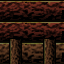
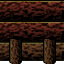
no more unhappiness and marginessss

diff --git a/js/load_level.js b/js/load_level.js
@@ -62,16 +62,16 @@ world.load_level = function(lvl_n) {
             world.scene.addChild(background);
 
             world.readMap([
-            [1,1,1,1,1,1,1,1,1,1,1,1,1,1],
-            [1,0,P,2,0,0,0,2,0,0,0,0,0,1],
-            [1,0,0,3,0,C,0,2,0,0,0,0,C,1],
-            [1,0,0,4,0,3,3,2,0,0,1,0,0,1],
-            [1,0,0,4,0,0,0,0,0,0,1,0,0,1],
-            [1,0,0,2,0,0,0,0,0,0,1,0,0,1],
-            [1,0,0,3,3,3,2,2,2,1,1,0,0,1],
-            [1,0,C,0,0,0,0,0,0,C,0,0,0,1],
-            [1,0,0,0,0,0,0,0,0,0,0,0,0,1],
-            [1,1,1,1,1,1,1,1,1,1,1,1,1,1]
+            [11,1,1,1,1,1,1,1,1,1,1,1,1,11],
+            [11,0,P,2,0,0,0,2,0,0,0,0,0,11],
+            [11,0,0,3,0,C,0,2,0,0,0,0,C,11],
+            [11,0,0,4,0,3,3,2,0,0,1,0,0,11],
+            [11,0,0,4,0,0,0,0,0,0,1,0,0,11],
+            [11,0,0,2,0,0,0,0,0,0,1,0,0,11],
+            [11,0,0,3,3,3,2,2,2,1,1,0,0,11],
+            [11,0,C,0,0,0,0,0,0,C,0,0,0,11],
+            [11,0,0,0,0,0,0,0,0,0,0,0,0,11],
+            [11,1,1,1,1,1,1,1,1,1,1,1,1,11]
         ]);
 
 			break;

diff --git a/js/world.js b/js/world.js
@@ -75,6 +75,9 @@ var world = (function(){
                     case 1:
                         path = 'wood.png'
                         break;
+                    case 11:
+                        path = 'wood_h.png'
+                        break;
                     case 2:
                         path = 'brick.png'
                         break;
@@ -153,6 +156,7 @@ var world = (function(){
         this.game.preload("img/camp.png");
         this.game.preload("img/house.png");
         this.game.preload("img/wood.png");
+        this.game.preload("img/wood_h.png");
         this.game.preload("img/cow_animation.png");
         this.game.preload("img/cow_ass.png");
         this.game.preload("img/cow_animation.png");
